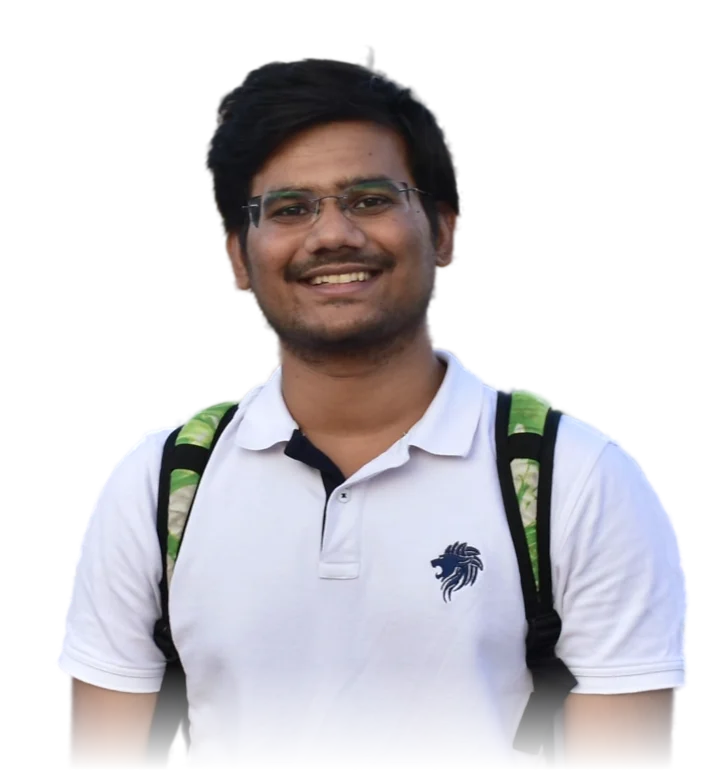
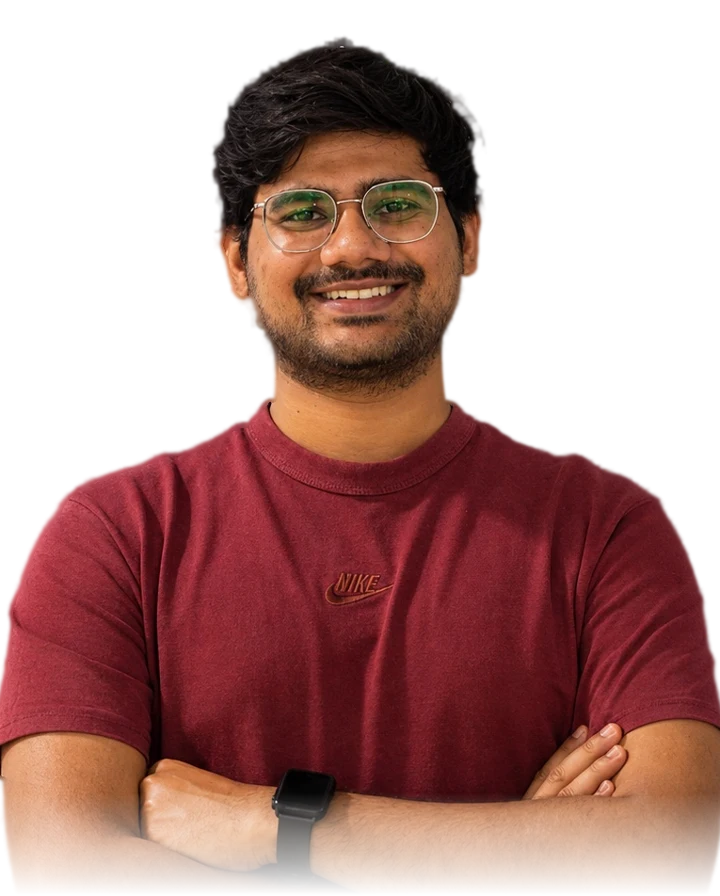
New profile photo with background removed
Claude-Session: https://claude.ai/code/session_01D2z2KJYSiKhxpuwEdAbL9z

diff --git a/index.html b/index.html
@@ -81,7 +81,7 @@
       </ul>
     </div>
     <div class="portrait-wrap" id="portrait">
-      <img class="portrait" src="images/portrait-cutout.webp" width="720" height="771" alt="Portrait of Suvadeep Maiti">
+      <img class="portrait" src="images/portrait-cutout.webp?v=2" width="720" height="896" alt="Portrait of Suvadeep Maiti">
     </div>
   </div>
   <div class="trace-wrap" aria-hidden="true">
